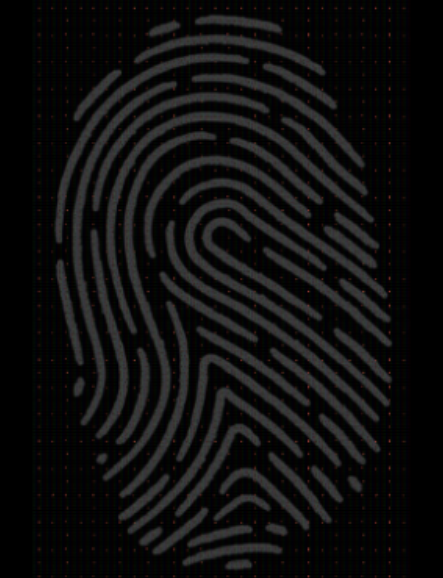
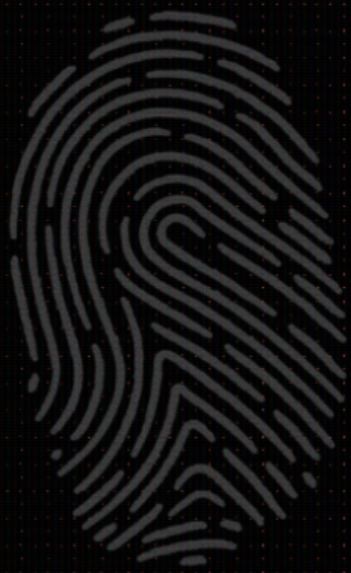
Add README demo, change window size, add termina Framerate

diff --git a/fingerprints_With_Scaling_AND_color_dependencies.py b/fingerprints_With_Scaling_AND_color_dependencies.py
@@ -3,10 +3,38 @@ import cv2
 from mss import mss
 import pygetwindow as gw
 import os
+import time
 
+def calculate_fps(prev_time):
+    current_time = time.time()
+    fps = 1 / (current_time - prev_time)
+    return fps, current_time
+
+template_paths = [
+    os.path.join(os.getcwd(), "GTA_V_Casino_Heist_Fingerprint_diagnosis", "images", "1", "Finger1_1.png"),
+    os.path.join(os.getcwd(), "GTA_V_Casino_Heist_Fingerprint_diagnosis", "images", "1", "Finger1_2.png"),
+    os.path.join(os.getcwd(), "GTA_V_Casino_Heist_Fingerprint_diagnosis", "images", "1", "Finger1_3.png"),
+    os.path.join(os.getcwd(), "GTA_V_Casino_Heist_Fingerprint_diagnosis", "images", "1", "Finger1_4.png"),
+    #os.path.join(os.getcwd(), "GTA_V_Casino_Heist_Fingerprint_diagnosis", "images", "1", "WholeFinger1.png"),
+    os.path.join(os.getcwd(), "GTA_V_Casino_Heist_Fingerprint_diagnosis", "images", "2", "Finger2_1.png"),
+    os.path.join(os.getcwd(), "GTA_V_Casino_Heist_Fingerprint_diagnosis", "images", "2", "Finger2_2.png"),
+    os.path.join(os.getcwd(), "GTA_V_Casino_Heist_Fingerprint_diagnosis", "images", "2", "Finger2_3.png"),
+    os.path.join(os.getcwd(), "GTA_V_Casino_Heist_Fingerprint_diagnosis", "images", "2", "Finger2_4.png"),
+    #os.path.join(os.getcwd(), "GTA_V_Casino_Heist_Fingerprint_diagnosis", "images", "2", "WholeFinger2.png"),
+    os.path.join(os.getcwd(), "GTA_V_Casino_Heist_Fingerprint_diagnosis", "images", "3", "Finger3_1.png"),
+    os.path.join(os.getcwd(), "GTA_V_Casino_Heist_Fingerprint_diagnosis", "images", "3", "Finger3_2.png"),
+    os.path.join(os.getcwd(), "GTA_V_Casino_Heist_Fingerprint_diagnosis", "images", "3", "Finger3_3.png"),
+    os.path.join(os.getcwd(), "GTA_V_Casino_Heist_Fingerprint_diagnosis", "images", "3", "Finger3_4.png"),
+    #os.path.join(os.getcwd(), "GTA_V_Casino_Heist_Fingerprint_diagnosis", "images", "3", "WholeFinger3.png"),
+    os.path.join(os.getcwd(), "GTA_V_Casino_Heist_Fingerprint_diagnosis", "images", "4", "Finger4_1.png"),
+    os.path.join(os.getcwd(), "GTA_V_Casino_Heist_Fingerprint_diagnosis", "images", "4", "Finger4_2.png"),
+    os.path.join(os.getcwd(), "GTA_V_Casino_Heist_Fingerprint_diagnosis", "images", "4", "Finger4_3.png"),
+    os.path.join(os.getcwd(), "GTA_V_Casino_Heist_Fingerprint_diagnosis", "images", "4", "Finger4_4.png"),
+    #os.path.join(os.getcwd(), "GTA_V_Casino_Heist_Fingerprint_diagnosis", "images", "4", "WholeFinger4.png")
+]
 # Define scaling factors for multi-scale template matching
-scale_factors = [0.5, 0.6, 0.7, 0.8, 0.9, 1.0]  # Adjust as needed
-threshold = 0.6  # Adjust as needed
+scale_factors = [0.8, 0.9, 1, 1.1, 1.2]  # Adjust as needed
+threshold = 0.7  # Adjust as needed
 
 # Define colors for different folders
 folder_colors = {
@@ -33,14 +61,16 @@ if second_monitor_window is None:
 
 # Ustaw obszar przechwytywania na podstawie współrzędnych okna
 mon = {
-    'left': second_monitor_window.left // 2,
-    'top': int(second_monitor_window.height // 3.85),
-    'width': second_monitor_window.width // 4,
-    'height': int(second_monitor_window.height // 1.75)
+    'left': int(second_monitor_window.right +  2560/18*4),
+    'top': 320,
+    'width': int(second_monitor_window.width//4),
+    'height': second_monitor_window.height//5*4
 }
+print(mon)
 
 # Przechwyć obraz z drugiego monitora
 with mss() as sct:
+    prev_time = time.time()
     while True:
         screenShot = sct.grab(mon)
         img = np.array(screenShot)
@@ -49,24 +79,16 @@ with mss() as sct:
         img_rbg = screenShot
 
         # Load the templates
-        template_paths = [
-            os.path.join(os.getcwd(), "GTA_V_Casino_Heist_Fingerprint_diagnosis", "images", "1", "Finger1_1.png"),
-            os.path.join(os.getcwd(), "GTA_V_Casino_Heist_Fingerprint_diagnosis", "images", "1", "Finger1_2.png"),
-            os.path.join(os.getcwd(), "GTA_V_Casino_Heist_Fingerprint_diagnosis", "images", "1", "Finger1_3.png"),
-            os.path.join(os.getcwd(), "GTA_V_Casino_Heist_Fingerprint_diagnosis", "images", "1", "Finger1_4.png"),
-            os.path.join(os.getcwd(), "GTA_V_Casino_Heist_Fingerprint_diagnosis", "images", "2", "Finger2_1.png"),
-            os.path.join(os.getcwd(), "GTA_V_Casino_Heist_Fingerprint_diagnosis", "images", "2", "Finger2_2.png"),
-            os.path.join(os.getcwd(), "GTA_V_Casino_Heist_Fingerprint_diagnosis", "images", "2", "Finger2_3.png"),
-            os.path.join(os.getcwd(), "GTA_V_Casino_Heist_Fingerprint_diagnosis", "images", "2", "Finger2_4.png"),
-            os.path.join(os.getcwd(), "GTA_V_Casino_Heist_Fingerprint_diagnosis", "images", "3", "Finger3_1.png"),
-            os.path.join(os.getcwd(), "GTA_V_Casino_Heist_Fingerprint_diagnosis", "images", "3", "Finger3_2.png"),
-            os.path.join(os.getcwd(), "GTA_V_Casino_Heist_Fingerprint_diagnosis", "images", "3", "Finger3_3.png"),
-            os.path.join(os.getcwd(), "GTA_V_Casino_Heist_Fingerprint_diagnosis", "images", "3", "Finger3_4.png"),
-            os.path.join(os.getcwd(), "GTA_V_Casino_Heist_Fingerprint_diagnosis", "images", "4", "Finger4_1.png"),
-            os.path.join(os.getcwd(), "GTA_V_Casino_Heist_Fingerprint_diagnosis", "images", "4", "Finger4_2.png"),
-            os.path.join(os.getcwd(), "GTA_V_Casino_Heist_Fingerprint_diagnosis", "images", "4", "Finger4_3.png"),
-            os.path.join(os.getcwd(), "GTA_V_Casino_Heist_Fingerprint_diagnosis", "images", "4", "Finger4_4.png")
-        ]
+
+
+        # for folder in range(1, 5):
+        #     for name in range(1, 6):
+        #         if(name != 5):
+        #             template_paths.append(os.path.join(os.getcwd(), "GTA_V_Casino_Heist_Fingerprint_diagnosis", "images", folder, f"Finger{folder}_{name}.png"))
+        #         else:
+        #             template_paths.append(os.path.join(os.getcwd(), "GTA_V_Casino_Heist_Fingerprint_diagnosis", "images", folder, f"WholeFinger{folder}.png"))
+
+
         templates = [cv2.imread(path, 0) for path in template_paths]
 
         # Perform multi-scale template matching for each template
@@ -94,8 +116,10 @@ with mss() as sct:
                 # Draw rectangle around the match on the original image with corresponding color
                 cv2.rectangle(img, pt, pt_end, template_color, 2)
 
+        fps, prev_time = calculate_fps(prev_time)
+        print(f"FPS: {fps:.2f}", end="\r")
         # Display the result
-        cv2.imshow('test', img)
+        cv2.imshow('Fingerprint_CHECKER', img)
         if cv2.waitKey(33) & 0xFF in (
                 ord('q'),
                 27,
